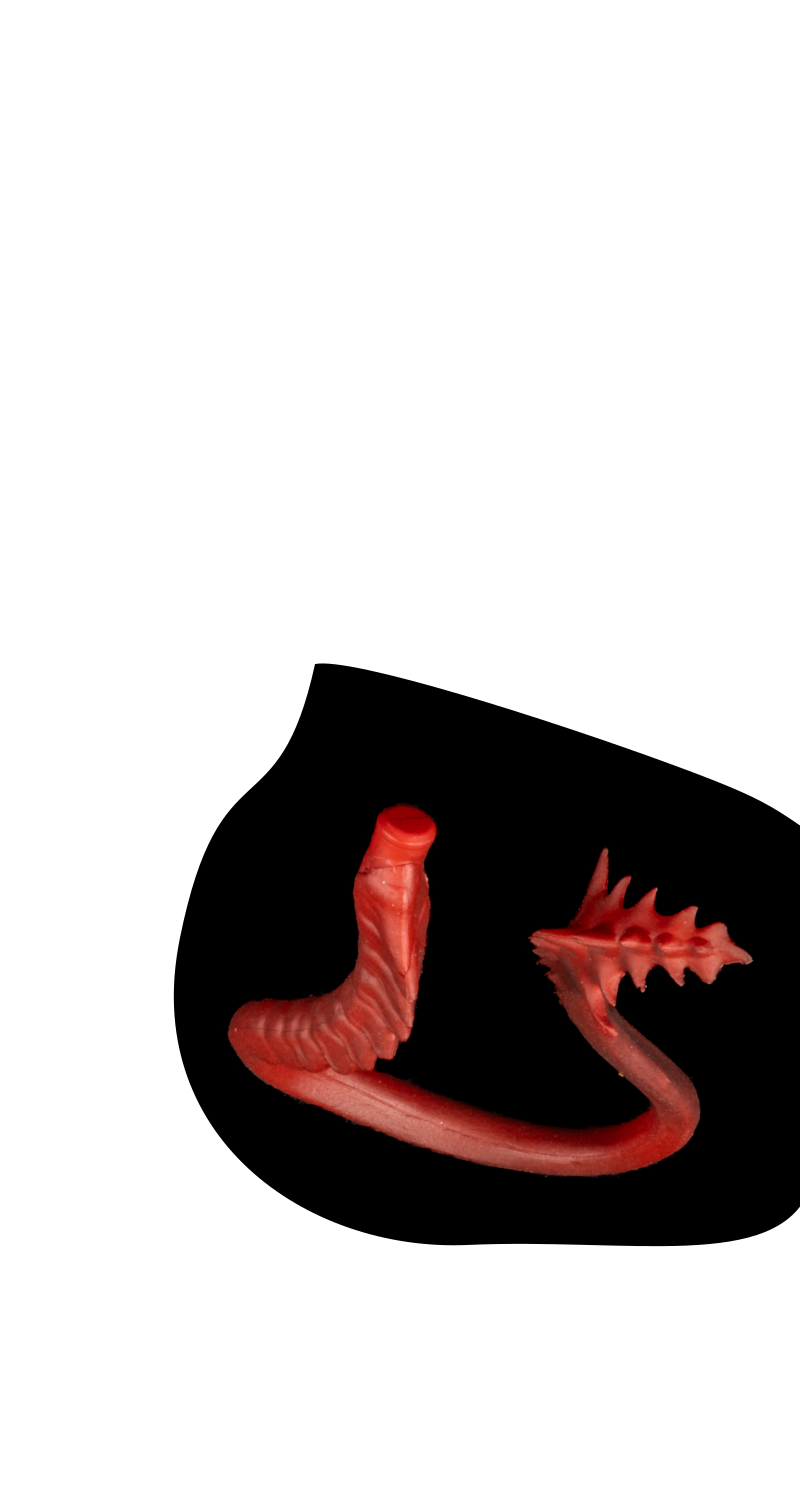
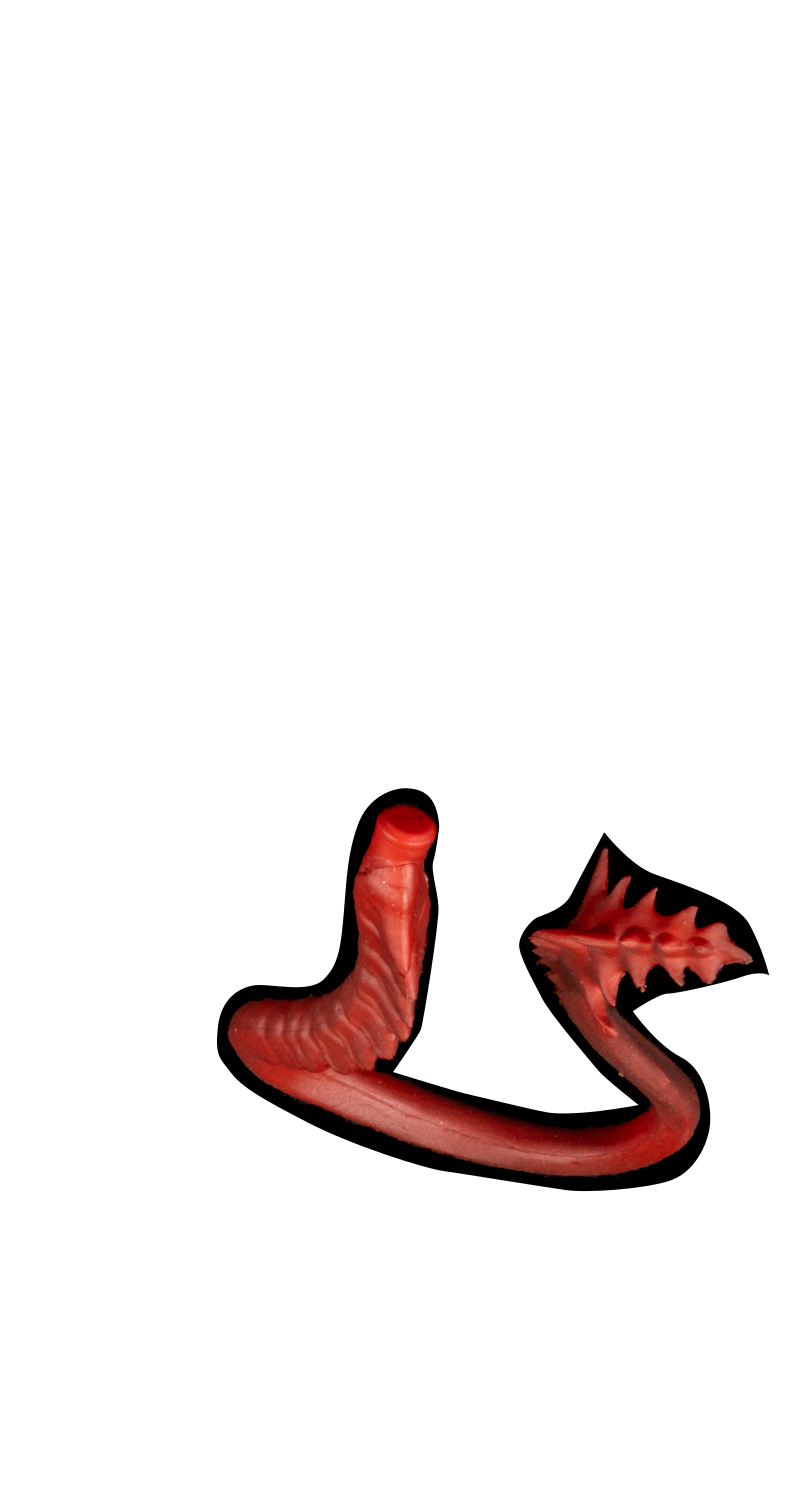
Updated Z-Order on render. Tightened cropping on tails.

Changed region(s): [[0.2188, 0.4293, 1.0, 0.8587]]

diff --git a/index.html b/index.html
@@ -605,14 +605,14 @@
                         { id: "lower-thief-silver", name: "Silver Thief Lower Body", thumbnailUrl: "images/lower_thief_silver_thumb.png", displayUrl: "images/lower_thief_silver.png" },
                     ],
                     armor: [
-                        { id: "armor-gladiator-black", name: "Black Gladiator Armor", thumbnailUrl: "images/armor_gladiator_black_thumb.png", displayUrl: "" },
-                        { id: "armor-gladiator-blood", name: "Blood Gladiator Armor", thumbnailUrl: "images/armor_gladiator_blood_thumb.png", displayUrl: "" },
-                        { id: "armor-gladiator-grungy", name: "Grungy Gladiator Armor", thumbnailUrl: "images/armor_gladiator_grungy_thumb.png", displayUrl: "" },
-                        { id: "armor-gladiator-silver", name: "Silver Gladiator Armor", thumbnailUrl: "images/armor_gladiator_silver_thumb.png", displayUrl: "" },
-                        { id: "armor-legion-black", name: "Black Legion Armor", thumbnailUrl: "images/armor_legion_black_thumb.png", displayUrl: "" },
-                        { id: "armor-legion-blood", name: "Blood Legion Armor", thumbnailUrl: "images/armor_legion_blood_thumb.png", displayUrl: "" },
-                        { id: "armor-legion-grungy", name: "Grungy Legion Armor", thumbnailUrl: "images/armor_legion_grungy_thumb.png", displayUrl: "" },
-                        { id: "armor-legion-silver", name: "Silver Legion Armor", thumbnailUrl: "images/armor_legion_silver_thumb.png", displayUrl: "" },
+                        { id: "armor-gladiator-black", name: "Black Gladiator Armor", thumbnailUrl: "images/armor_gladiator_black_thumb.png", displayUrl: "images/armor_gladiator_black.png" },
+                        { id: "armor-gladiator-blood", name: "Blood Gladiator Armor", thumbnailUrl: "images/armor_gladiator_blood_thumb.png", displayUrl: "images/armor_gladiator_blood.png" },
+                        { id: "armor-gladiator-grungy", name: "Grungy Gladiator Armor", thumbnailUrl: "images/armor_gladiator_grungy_thumb.png", displayUrl: "images/armor_gladiator_grungy.png" },
+                        { id: "armor-gladiator-silver", name: "Silver Gladiator Armor", thumbnailUrl: "images/armor_gladiator_silver_thumb.png", displayUrl: "images/armor_gladiator_silver.png" },
+                        { id: "armor-legion-black", name: "Black Legion Armor", thumbnailUrl: "images/armor_legion_black_thumb.png", displayUrl: "images/armor_legion_black.png" },
+                        { id: "armor-legion-blood", name: "Blood Legion Armor", thumbnailUrl: "images/armor_legion_blood_thumb.png", displayUrl: "images/armor_legion_blood.png" },
+                        { id: "armor-legion-grungy", name: "Grungy Legion Armor", thumbnailUrl: "images/armor_legion_grungy_thumb.png", displayUrl: "images/armor_legion_grungy.png" },
+                        { id: "armor-legion-silver", name: "Silver Legion Armor", thumbnailUrl: "images/armor_legion_silver_thumb.png", displayUrl: "images/armor_legions_silver.png" },
                         { id: "armor-tattered-black", name: "Black Tattered Armor", thumbnailUrl: "images/armor_tattered_black_thumb.png", displayUrl: "images/armor_tattered_black.png" },
                         { id: "armor-tattered-blood", name: "Blood Tattered Armor", thumbnailUrl: "images/armor_tattered_blood_thumb.png", displayUrl: "images/armor_tattered_blood.png" },
                         { id: "armor-tattered-grungy", name: "Grungy Tattered Armor", thumbnailUrl: "images/armor_tattered_grungy_thumb.png", displayUrl: "images/armor_tattered_grungy.png" },
@@ -715,7 +715,7 @@
                 function renderFigure() {
                     figureDisplay.innerHTML = '';
                     welcomeMessage.classList.add('hidden');
-                    const zIndexes = { helmet: 5, armor: 4, upper: 2, lower: 3, tail: 1 };
+                    const zIndexes = { helmet: 4, armor: 5, upper: 1, lower: 3, tail: 2 };
                     const orderedCategories = Object.keys(zIndexes).sort((a, b) => zIndexes[a] - zIndexes[b]);
                     let hasItems = false;
                     
